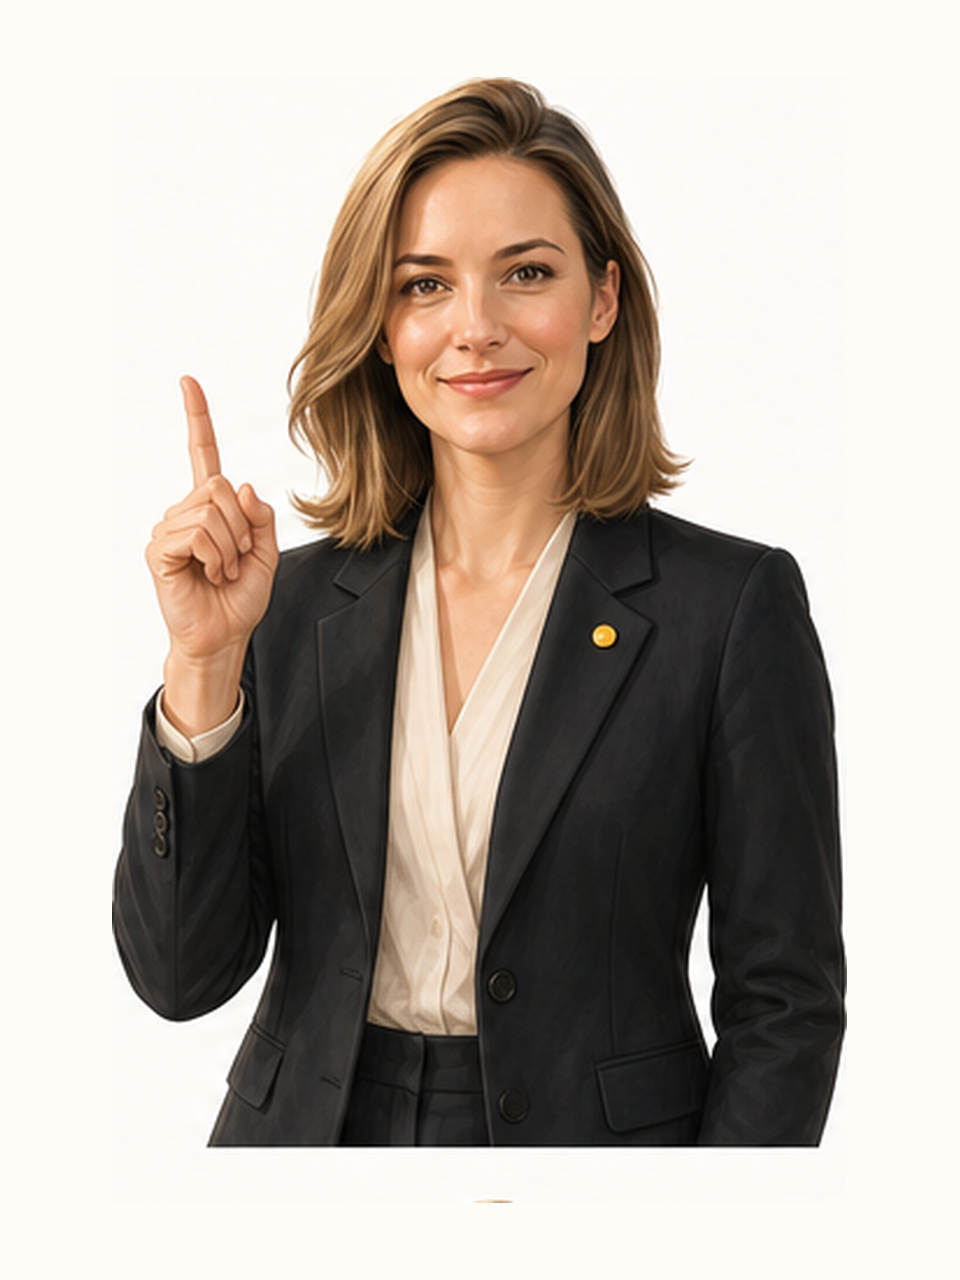
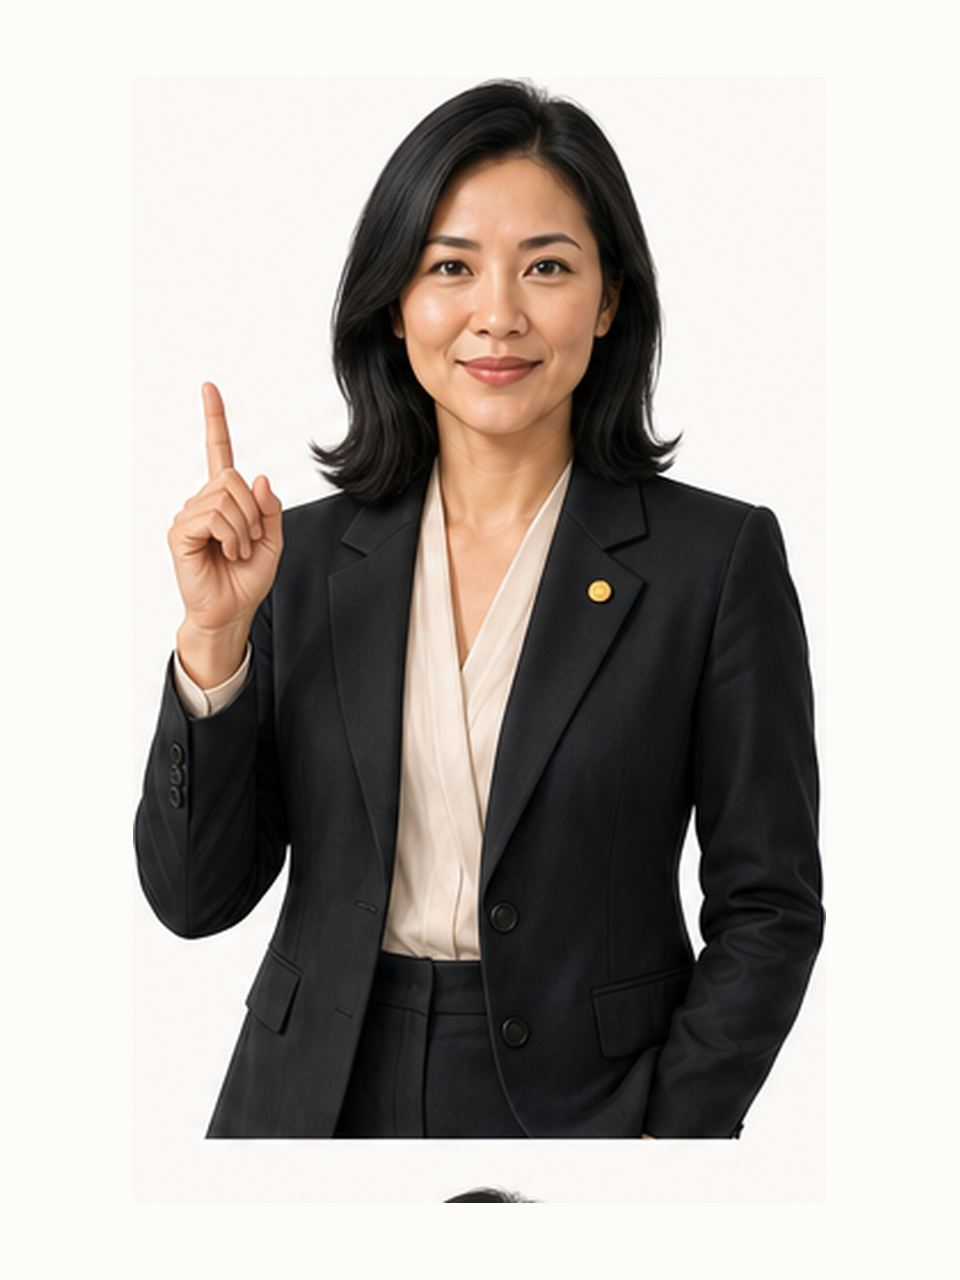
fix(fe): align banker identity across generated poses

diff --git a/scripts/prepare-ui-assets.py b/scripts/prepare-ui-assets.py
@@ -57,6 +57,8 @@ def save_people() -> None:
     for name, column, row in poses:
         normalized = normalize(cell(sheet, column, row, 4, 2), (960, 1280))
         normalized.convert("RGB").save(target / name, optimize=True, quality=94)
+    portrait = normalize(cell(sheet, 0, 1, 4, 2), (1254, 1254), fill=0.96)
+    portrait.convert("RGB").save(target / "banker-portrait.png", optimize=True, quality=94)
 
 
 def save_mascot() -> None:

diff --git a/docs/ASSET-MANIFEST.md b/docs/ASSET-MANIFEST.md
@@ -9,7 +9,7 @@ contact sheets so the crop can be reproduced with `scripts/prepare-ui-assets.py`
 
 | Files | Dimensions | Usage | Prompt |
 |---|---:|---|---|
-| `assets/people/banker-portrait.png` | 1254×1254 | Passkey identity portrait | P1 |
+| `assets/people/banker-portrait.png` | 1254×1254 | Passkey identity portrait | P2 |
 | `assets/people/banker-open-left.png` | 960×1280 | Guardian invite acceptance | P2 |
 | `assets/people/banker-present-right.png` | 960×1280 | Wallet setup introduction | P2 |
 | `assets/people/banker-half-arms.png` | 960×1280 | Reserved editorial pose | P2 |
@@ -93,4 +93,3 @@ contact sheets so the crop can be reproduced with `scripts/prepare-ui-assets.py`
 > design, premium but human, soft natural studio light, no crypto clichés, no coins, no gradients,
 > no blue or purple, no readable text, no logos, no watermarks. Landscape composition optimized
 > for Open Graph preview, safe focal content centered within margins.
-
